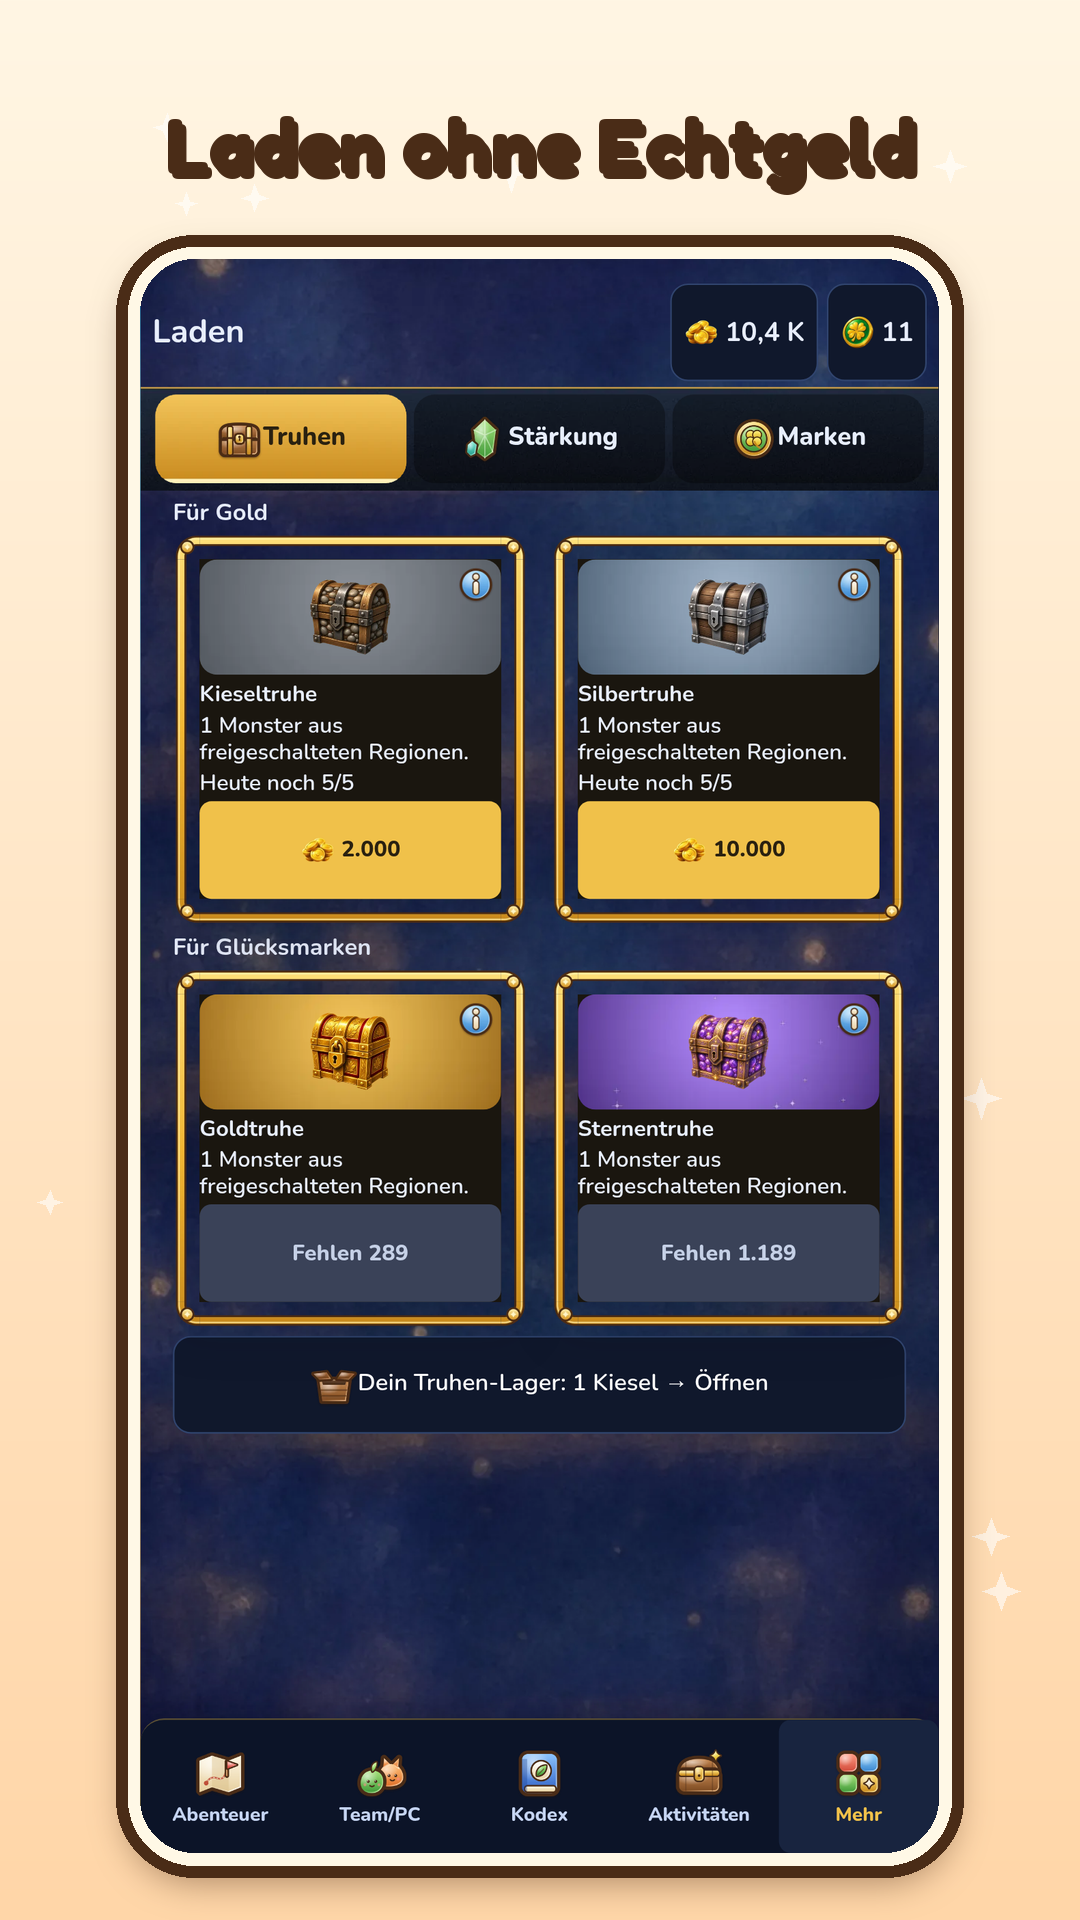
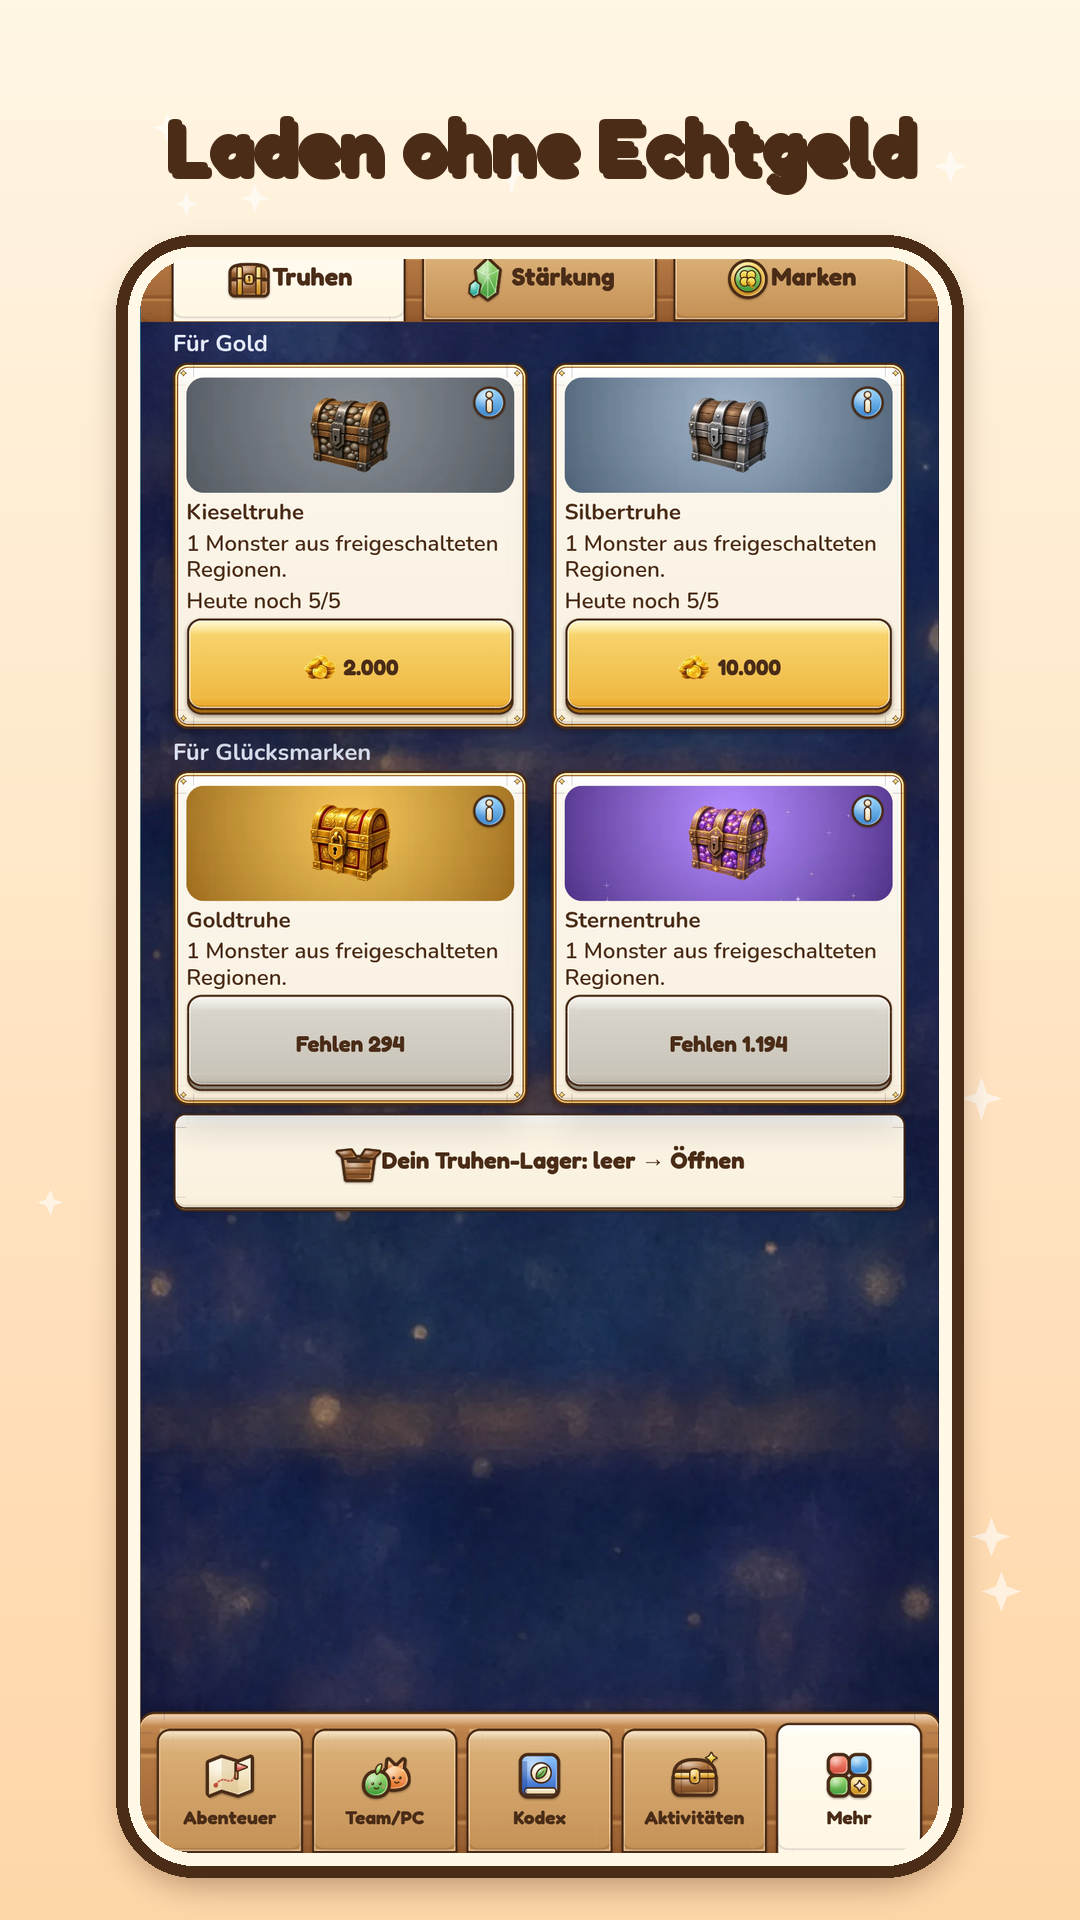
Grafik: Ringe, Starter-Rahmen und Restfehler D/E (#99)
* Grafik: Meisterschaftsringe, Starter-Rahmen, Store-Screenshots 01–07 neu, Abnahme D/E

* Grafik: Meisterschaftsringe und Starter-Rahmen nutzen, Restfehler D/E.

Die neuen Kit-Teile rahmen Porträt und Starterkarte. Sheet-Köpfe, Wertebalken, Dock, Log, PC und Erfolge folgen der Abnahme.

---------

diff --git a/src/adventure/ui-kit.css b/src/adventure/ui-kit.css
@@ -1051,8 +1051,8 @@ select {
   background-clip: padding-box !important;
   border-radius: 99px !important;
 }
-.starter-track { border-width: 0 4px !important; border-image-width: 4px !important; height: 18px !important; }
-.starter-track span { border-width: 0 3px !important; border-image-width: 3px !important; min-width: 6px !important; }
+.starter-track { border-width: 0 8px !important; border-image-width: 8px !important; height: 32px !important; }
+.starter-track span { border-width: 0 8px !important; border-image-width: 8px !important; min-width: 16px !important; }
 .starter-card[data-species="m01"] .starter-track span { border-image-source: var(--kit-progress-fill-red) !important; }
 .starter-card[data-species="m02"] .starter-track span { border-image-source: var(--kit-progress-fill-blue) !important; }
 .starter-card[data-species="m03"] .starter-track span { border-image-source: var(--kit-progress-fill-green) !important; }
@@ -1145,7 +1145,7 @@ button.log div { grid-column: 2; }
 }
 .list-row.achieve > .ui-icon { flex: 0 0 auto; }
 .list-row.achieve > div:not(.list-actions) { flex: 1 1 auto; min-width: 0; text-align: left; }
-.list-row.achieve .list-actions { flex: 0 0 auto; justify-content: flex-end; max-width: 48%; }
+.list-row.achieve .list-actions { flex: 0 0 auto; justify-content: flex-end; max-width: none; }
 .achieve.done b { color: var(--ink) !important; }
 .achieve .list-actions button {
   min-height: 64px !important;
@@ -1258,7 +1258,7 @@ button.log div { grid-column: 2; }
 }
 
 /* Team dock: the label wraps whole instead of being cut off. */
-.menu-dock > button:not([data-act="activity"]) {
+.menu-dock > button:not([data-act="activity"]):not(.dock-primary) {
   overflow: visible !important;
   white-space: normal !important;
   text-overflow: clip !important;
@@ -1414,7 +1414,7 @@ button.log div { grid-column: 2; }
   color: var(--ink) !important;
   text-shadow: none !important;
 }
-.sheet h2,
+.sheet > h2,
 #cloud-layer h2,
 .overwrite-card h2,
 .kicker {
@@ -1498,3 +1498,93 @@ button.log div { grid-column: 2; }
   margin: 0 !important;
   flex: 0 0 auto;
 }
+
+/* Paket 9 Rest: Ringe, Starter-Rahmen und die Abnahme D/E. */
+.m-plate.m-bronze,
+.m-plate.m-silver,
+.m-plate.m-gold {
+  border-style: solid !important;
+  border-color: transparent !important;
+  border-width: 14px !important;
+  border-image-slice: 56 !important;
+  border-image-width: 20px !important;
+  border-image-outset: 3px !important;
+  border-image-repeat: stretch !important;
+  box-shadow: none !important;
+}
+.m-plate.m-bronze { border-image-source: var(--kit-mastery-ring-bronze) !important; }
+.m-plate.m-silver { border-image-source: var(--kit-mastery-ring-silver) !important; }
+.m-plate.m-gold { border-image-source: var(--kit-mastery-ring-gold) !important; }
+.starter-frame { display: none !important; }
+.starter-card[data-species="m01"],
+.starter-card[data-species="m02"],
+.starter-card[data-species="m03"] {
+  border-style: solid !important;
+  border-color: transparent !important;
+  border-width: 28px !important;
+  border-image-slice: 72 !important;
+  border-image-width: 36px !important;
+  border-image-outset: 0 !important;
+  border-image-repeat: stretch !important;
+  background-color: #faf4e7 !important;
+}
+.starter-card[data-species="m01"] { border-image-source: var(--kit-starter-fire) !important; }
+.starter-card[data-species="m02"] { border-image-source: var(--kit-starter-water) !important; }
+.starter-card[data-species="m03"] { border-image-source: var(--kit-starter-plant) !important; }
+.starter-body { padding-bottom: 20px !important; }
+.starter-choose { position: relative; z-index: 3; }
+.menu-dock > .dock-primary {
+  font-size: 34px !important;
+  line-height: 1.15 !important;
+}
+.menu-dock[data-dock="hort"] > button[data-act="activity"],
+.menu-dock[data-dock="chests"] > button[data-act="activity"],
+.menu-dock[data-dock="wheel"] > button[data-act="activity"] {
+  flex: 1 1 calc(33.33% - 12px) !important;
+  min-width: calc(33.33% - 12px);
+  max-width: calc(33.33% - 8px);
+}
+.home-bar {
+  border-width: 34px 18px 10px !important;
+  padding-top: 10px !important;
+}
+.home-bar .home-reason {
+  display: block;
+  margin-top: 6px !important;
+  padding-top: 2px;
+  line-height: 1.2;
+}
+.is-adventure .dock {
+  border-image-outset: 0 !important;
+  border-image-width: 14px !important;
+  border-width: 10px !important;
+  z-index: 1;
+}
+.is-adventure button.log {
+  position: relative;
+  z-index: 2;
+  border-width: 14px 16px !important;
+  border-image-width: 14px 18px !important;
+}
+.pc-block {
+  flex: 1 1 auto;
+  min-height: 0;
+  display: flex;
+  flex-direction: column;
+  margin: 8px 12px 0;
+  color: var(--ink) !important;
+}
+.pc-block .pc-label { margin: 0 0 8px; color: var(--ink) !important; }
+.pc-block .vlist { flex: 1 1 auto; }
+.card.panel > button[data-act="rank-friends"] { margin-top: 14px !important; }
+.achieve .list-actions button {
+  display: inline-flex !important;
+  flex-direction: column;
+  align-items: center;
+  justify-content: center;
+  gap: 2px;
+  line-height: 1.05;
+  white-space: nowrap !important;
+  min-width: 132px;
+}
+.achieve .list-actions button .ui-icon { width: 36px !important; height: 36px !important; }

diff --git a/src/adventure/uiKit.ts b/src/adventure/uiKit.ts
@@ -42,6 +42,9 @@ export const KIT_ART = {
   'control-toggle-on': { webp: 'ui_kit/webp/control/toggle_on.webp', png: 'ui_kit/control/toggle_on.png' },
   'dialog-grab': { webp: 'ui_kit/webp/dialog/grab.webp', png: 'ui_kit/dialog/grab.png' },
   'dialog-head': { webp: 'ui_kit/webp/dialog/head.webp', png: 'ui_kit/dialog/head.png' },
+  'mastery-ring-bronze': { webp: 'ui_kit/webp/mastery/ring_bronze.webp', png: 'ui_kit/mastery/ring_bronze.png' },
+  'mastery-ring-gold': { webp: 'ui_kit/webp/mastery/ring_gold.webp', png: 'ui_kit/mastery/ring_gold.png' },
+  'mastery-ring-silver': { webp: 'ui_kit/webp/mastery/ring_silver.webp', png: 'ui_kit/mastery/ring_silver.png' },
   'divider-line': { webp: 'ui_kit/webp/divider/line.webp', png: 'ui_kit/divider/line.png' },
   'divider-star': { webp: 'ui_kit/webp/divider/star.webp', png: 'ui_kit/divider/star.png' },
   'input-error': { webp: 'ui_kit/webp/input/error.webp', png: 'ui_kit/input/error.png' },
@@ -66,6 +69,9 @@ export const KIT_ART = {
   'progress-fill-red': { webp: 'ui_kit/webp/progress/fill_red.webp', png: 'ui_kit/progress/fill_red.png' },
   'progress-track': { webp: 'ui_kit/webp/progress/track.webp', png: 'ui_kit/progress/track.png' },
   'scroll-thumb': { webp: 'ui_kit/webp/scroll/thumb.webp', png: 'ui_kit/scroll/thumb.png' },
+  'starter-fire': { webp: 'ui_kit/webp/starter/starter_fire.webp', png: 'ui_kit/starter/starter_fire.png' },
+  'starter-plant': { webp: 'ui_kit/webp/starter/starter_plant.webp', png: 'ui_kit/starter/starter_plant.png' },
+  'starter-water': { webp: 'ui_kit/webp/starter/starter_water.webp', png: 'ui_kit/starter/starter_water.png' },
   'scroll-track': { webp: 'ui_kit/webp/scroll/track.webp', png: 'ui_kit/scroll/track.png' },
   'tab-active': { webp: 'ui_kit/webp/tab/active.webp', png: 'ui_kit/tab/active.png' },
   'tab-bar': { webp: 'ui_kit/webp/tab/bar.webp', png: 'ui_kit/tab/bar.png' },

diff --git a/src/adventure/view.ts b/src/adventure/view.ts
@@ -866,8 +866,10 @@ function team(save: SaveV2, query: PcQuery, selected: string | null, shell: Shel
       <div class="team-grid" id="team-grid" data-cols="3">${roster}</div>
     </div>
     ${synergyBoard(save)}
-    <h2 class="pc-label">${tr(save, 'team.pc')} · ${list.length}</h2>
-    <div id="pc-viewport" class="vlist" data-cols="4" data-count="${list.length}" data-start="${win.start}" data-end="${win.end}">${body}</div>
+    <div class="card panel pc-block">
+      <h2 class="pc-label">${tr(save, 'team.pc')} · ${list.length}</h2>
+      <div id="pc-viewport" class="vlist" data-cols="4" data-count="${list.length}" data-start="${win.start}" data-end="${win.end}">${body}</div>
+    </div>
     <div class="menu-dock" data-dock="team">
       <button type="button" data-act="nudge" data-dir="-1">${ui('forward')}${tr(save, 'team.forward')}</button>
       <button type="button" data-act="nudge" data-dir="1">${ui('back')}${tr(save, 'team.back')}</button>

diff --git a/docs/abnahme/p9-d.md b/docs/abnahme/p9-d.md
@@ -1,0 +1,42 @@
+---
+datum: 2026-11-19
+quelle: Live-Build https://2fast2hunter-ai.github.io/velunor/ (main d5e5b78, PR #95, Bundle index-Dk2nd-79.js), 390x844 DPR3: m390_* (audit_ui.mjs, Map-Sheet-Schließen ergänzt), xa/ (pra_dpr3.mjs), xb/ (prb_dpr3.mjs)
+status: abgenommen mit Restfehlern (0 hoch, 1 mittel, 6 niedrig); Sozial nur Offline-/Code-Prüfung (Supabase friends 403)
+---
+# Live-Abnahme Paket 9 PR D + Nachprüfung A/B/C
+
+## Nachprüfung (390 px)
+| Punkte | behoben? | Screenshot |
+|---|---|---|
+| A1 / B2 Slice-Nähte | ja, keine Haarlinien mehr bei 3× | xa/05_hub.png, m390_s_achievements.png |
+| A2 English-Knopf | ja (blau, helle Schrift) | xa/02_sprache.png |
+| A3 Log-Sheet unter wx-chip | ja | xa/07_log_voll.png |
+| A4, A5, A7, A10, A11, A12 | ja | xa/05_hub.png, xa/03_starter_gewaehlt.png, xa/06_kapitel_offen.png |
+| A6 Starter-Wertebalken | **nein**, s. R1 | xa/03_starter_gewaehlt.png |
+| A8 Hinweis in Holz-Leiste | teilweise (hell, lesbar), s. R2 | xa/02_name_leer_fokus.png |
+| A9 Log-Zeilen | teilweise (3 Zeilen), s. R3 | xa/05_hub.png |
+| B1 Truhen-Siegel | ja (dunkle Bühne, Siegel sichtbar) | xb/09_oeffnen_500/1200/2200.png |
+| B3, B5, B8, B9, B12 | ja | xb/03_status_tip.png, xb/05_kodex.png, xb/06_aktivitaeten_tage.png |
+| B4 Aktivitäten-Dock | teilweise (1 Zeile), s. R4 | xb/06_aktivitaeten_tage.png |
+| B6 Synergien/Team | teilweise (Synergien hell im Panel), s. R5 | xb/04_team.png |
+| B7 konter-label | ja (Code: ui-kit.css:1288–1296, Gold-Slices 36 30) | – |
+| B10, B11 | B10 ok; B11 Rad weiter gesperrt im Testlauf | xb/08_truhen.png, xb/10_rad.png |
+| C1, C2, C3, C5, C6, C7 | ja | m390_s_achievements/shop/map/tower.png |
+| C4 Rang-Tabs | ja (Raster), Kleinigkeit s. R6 | m390_s_ranks.png |
+| C8 | weiter gesperrt (nur Sperr-Ansicht) | m390_s_arena/expedition/tree.png |
+
+## Restfehler
+| # | Prio | Befund | Datei:Zeile (Vermutung) |
+|---|---|---|---|
+| R1 | mittel | Starter-Wertebalken: Füllung nur als dünner roter Strich sichtbar, Werte nicht ablesbar (A6) | ui-kit.css:1054–1055 (Bahn 4 px/Füllung 3 px Randbild bei 18 px Höhe) → Höhe 24 px, Füllung `border-image-width 6px`, ohne dunkle Bahnmitte |
+| R2 | niedrig | „Mindestens 2 Zeichen.“ klebt oben an/über der Holz-Leiste (Oberkante schneidet Schrift) | ui-kit.css:320–324 `margin-top` greift nicht, `.home-bar` border-width oben erhöhen |
+| R3 | niedrig | Hub: Dock-Slots ragen über die Log-Oberkante, erste Log-Zeile halb verdeckt | ui-kit.css:1077–1086 `button.log` / :706 `.dock` (Abstand/Höhe) |
+| R4 | niedrig | Aktivitäten-Dock: 5 Knöpfe in einer Zeile, „Glücksrad“ abgeschnitten („Glücksrac“) | ui-kit.css:1088 – Aktivitäten-Tabs eigene Zeile, Aktionen darunter |
+| R5 | niedrig | Team: Bereich „PC · 0“ steht weiter auf Navy außerhalb des Panels | Team-Container in Panel-Gruppe (ui-kit.css Panel :36ff) |
+| R6 | niedrig | Ränge: „Freunde“-Untertab berührt/überlappt die Tab-Zeile darüber | ui-kit.css Rank-Tabs (:414/:436-Gruppe) `margin-top` |
+| R7 | niedrig | Erfolge: Icon im Knopf „Titel“ überlappt die Beschriftung | adventure.css:189 `.achieve button` + ui-kit Button-Gruppe (Icon über Text stellen wie „Rahmen“) |
+
+## PR D Sozial (Freunde, Tausch, Gilde, Chat)
+- **Live:** Freunde bleibt bei „Die Freundesliste wird geöffnet.“ (`functions/v1/friends` 403), Tausch/Gilde/Chat zeigen „Offline …“-Panel. Diese Panels sind Kit-hell, korrekt, ohne Nähte (m390_s_social/trade/guild/chat.png).
+- **Aus Code (nicht live sichtbar):** alle Klassen in view.ts:1672–1960 haben Kit-Regeln oder erben sie (friend-row, trade-card, trade-escrow, chat-line, chat-send, chat-form, guild-phrases, beast-card, hp-beast; Eingaben global ui-kit.css:528–539). Keine dunkle Fläche mehr offen (adventure.css:1838 `.friend-search input #10182c` wird von ui-kit.css:529 überschrieben). Online-Zustände bitte mit Konto/Netz nachprüfen.
+- Hinweis: Optionen zeigt „Online“, Sozial-Screens „Offline“ – Textlogik, kein Grafikfehler.

diff --git a/docs/abnahme/p9-e.md b/docs/abnahme/p9-e.md
@@ -1,0 +1,27 @@
+---
+datum: 2026-11-19
+quelle: Live-Build https://2fast2hunter-ai.github.io/velunor/ (main b32c0f9, PR #96, Bundle index-CURw1FxJ.js), 390x844 DPR3: m390_* (audit_ui.mjs), xa/ (pra_dpr3.mjs), xb/ (prb_dpr3.mjs)
+status: abgenommen mit Restfehlern (0 hoch, 2 mittel, 7 niedrig); alle Flächen 1–118 am Kit
+---
+# Live-Abnahme Paket 9 PR E + Gesamtprüfung A–E
+
+PR E (Einstellungen, Konto, Anleitung, Dialoge/Sheets): Optionen/Konto, Anleitung, Zurücksetzen-Dialog, Zustimmung, Truhen-Quoten-, Kodex-, Mehr-Sheet hell, Dialog-Kopf blau, keine Nähte (m390_s_options/guide/popup_*.png, 01b_consent.png).
+
+## Restfehler (Stand b32c0f9)
+| # | Prio | Befund | Datei:Zeile (Vermutung) |
+|---|---|---|---|
+| E1 | mittel | `.sheet h2` macht **jede** h2 im Sheet zum blauen Dialog-Kopf: Monstername im Kodex-Eintrag und im Truhen-Ergebnis („Spukrüstung“) wird zum vollbreiten Balken, doppelt mit Kicker | ui-kit.css:1417 → `.sheet > h2` bzw. `:not(.chest-card h2):not(.dex-head h2)` |
+| R1 | mittel | Starter-Wertebalken (HP/Angriff/Tempo) weiter nur dünne Linie, Füllung kaum sichtbar (A6) | ui-kit.css:1054–1055 |
+| E2 | niedrig | Dock-Knöpfe mit 22-px-Schrift: „Jetzt abgleichen“ (Optionen), „Platz 2 · 50.000 G“, „Drehen“ winzig im großen Knopf | ui-kit.css:1261–1269 gilt auch für `.dock-primary` → `:not(.dock-primary)` |
+| E3 | niedrig | Starter-Karte: alter Rahmen (`.starter-frame`) liegt in der Kit-Karte → Rahmen-im-Rahmen, „Gewählt“-Knopf unten angeschnitten | adventure.css:934 `.starter-frame`, ui-kit.css:784/:1068 → neuer Rahmen ui_kit/starter/ (s. u.) |
+| R2 | niedrig | „Mindestens 2 Zeichen.“ in der Holz-Leiste oben angeschnitten | ui-kit.css:320–324 |
+| R3 | niedrig | Hub: Dock-Slots überdecken die erste Log-Zeile | ui-kit.css:1077–1086 / :706 |
+| R4 | niedrig | Aktivitäten-Dock: „Glücksrad“ abgeschnitten (5 Knöpfe/Zeile) | ui-kit.css:1088 |
+| R5 | niedrig | Team: „PC · 0“ außerhalb des Panels auf Navy | ui-kit.css:789 `.team-block` (PC-Block fehlt) |
+| R6/R7 | niedrig | Rang-Untertab „Freunde“ stößt an Tab-Zeile; Erfolge-Knopf „Titel“ Icon über Text | ui-kit.css :414/:436-Gruppe; adventure.css:189 |
+
+A1–A5, A7, A10–A12, B1–B3, B5–B12, C1–C8 bleiben behoben. Sozial weiter nur Offline-Ansicht (friends 403).
+
+## Neu gezeichnet (ui_kit, eigene Code-Grafik, raw_src/paket9/draw_mastery.py)
+- `ui_kit/mastery/ring_{bronze,silver,gold}.png` (+webp), 160×160, 9-Slice 56, Mitte transparent; Silber mit 4 Sternnieten, Gold zusätzlich Stern oben. Für `.m-plate.m-bronze/-silver/-gold` (adventure.css:1719–1721, ersetzt box-shadow-Ring). CSS-Beispiel in ui_kit.json.
+- `ui_kit/starter/starter_{fire,water,plant}.png` (+webp), 200×200, 9-Slice 72, Mitte transparent – ersetzt den alten `.starter-frame` (E3); Zuordnung m01 fire, m02 water, m03 plant.
